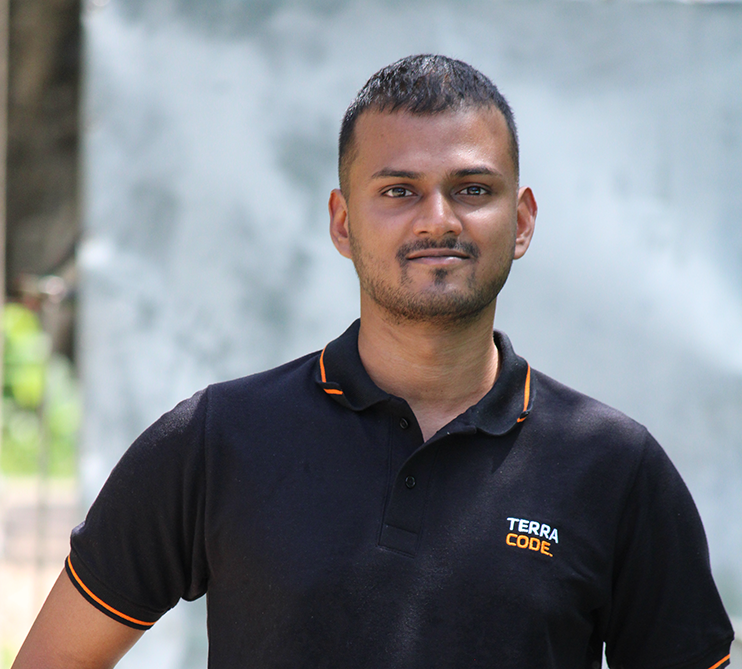
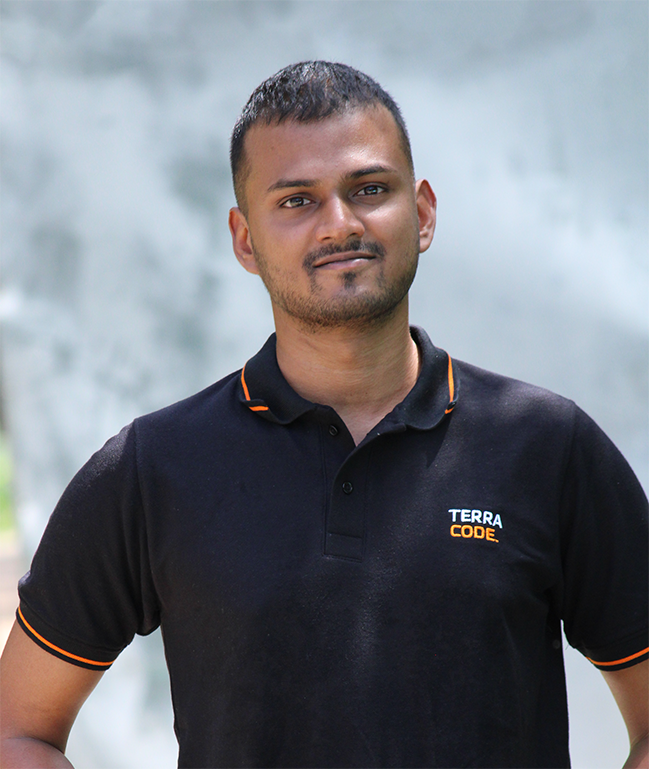
change the images and adding the redirectors and page scroll down error fix

diff --git a/src/pages/main-page/sections/Hero.tsx b/src/pages/main-page/sections/Hero.tsx
@@ -169,23 +169,27 @@ const HeroSection: React.FC = () => {
                 <div className="w-full relative flex flex-col items-start justify-start gap-4 text-center xl:text-xl text-gray font-lufga">
                   <div className="self-stretch rounded-3xl flex flex-row items-center justify-start py-0 px-6 gap-4">
                     <div className="w-[15px] relative rounded-[50%] bg-amber-600 h-[15px]" />
+                    <div className="relative tracking-[0.04px] leading-[30px] font-light">Business Software</div>
+                  </div>
+                  <div className="self-stretch rounded-3xl flex flex-row items-center justify-start py-0 px-6 gap-4">
+                    <div className="w-[15px] relative rounded-[50%] bg-amber-600 h-[15px]" />
                     <div className="relative tracking-[0.04px] leading-[30px] font-light">AI Solutions</div>
                   </div>
                   <div className="self-stretch rounded-3xl flex flex-row items-center justify-start py-0 px-6 gap-4">
                     <div className="w-[15px] relative rounded-[50%] bg-amber-600 h-[15px]" />
-                    <div className="relative tracking-[0.04px] leading-[30px] font-light">Design</div>
+                    <div className="relative tracking-[0.04px] leading-[30px] font-light">Web Applications</div>
                   </div>
                   <div className="self-stretch rounded-3xl flex flex-row items-center justify-start py-0 px-6 gap-4">
                     <div className="w-[15px] relative rounded-[50%] bg-amber-600 h-[15px]" />
-                    <div className="relative tracking-[0.04px] leading-[30px] font-light">Mobile App</div>
+                    <div className="relative tracking-[0.04px] leading-[30px] font-light">Mobile Applications</div>
                   </div>
                   <div className="self-stretch rounded-3xl flex flex-row items-center justify-start py-0 px-6 gap-4">
                     <div className="w-[15px] relative rounded-[50%] bg-amber-600 h-[15px]" />
-                    <div className="relative tracking-[0.04px] leading-[30px] font-light">Web App</div>
+                    <div className="relative tracking-[0.04px] leading-[30px] font-light">Cloud Operations</div>
                   </div>
                   <div className="self-stretch rounded-3xl flex flex-row items-center justify-start py-0 px-6 gap-4">
                     <div className="w-[15px] relative rounded-[50%] bg-amber-600 h-[15px]" />
-                    <div className="relative tracking-[0.04px] leading-[30px] font-light">Data Analysis</div>
+                    <div className="relative tracking-[0.04px] leading-[30px] font-light">UX Design</div>
                   </div>
                 </div>
                 <div className="text-amber-600 mt-10">
@@ -260,7 +264,7 @@ const HeroSection: React.FC = () => {
                 <ArrowRightCircle className="w-7 h-7" />
                 </button> */}
                 <div className="">
-                  <TerraButton className=" " padding="pl-6 pr-2 py-2 rounded-4xl text-sm gap-6 " img="w-3"/>
+                  <TerraButton className=" " padding="pl-6 pr-2 py-2 rounded-4xl text-sm gap-6 " img="w-3" onClick={handleClick}/>
                 </div>
                 <div className=" backdrop-blur-md bg-white/10 mt-4 rounded-2xl p-4 max-w-md w-full text-white shadow-lg flex justify-center items-center flex-row gap-4">
                 <div className="absolute bottom-0 left-0 w-full h-[1.5px] opacity-70 transition-opacity duration-300 bg-gradient-to-r from-transparent via-orange-500 to-transparent pointer-events-none" />

diff --git a/src/components/nfooter.tsx b/src/components/nfooter.tsx
@@ -1,8 +1,14 @@
 import { Facebook, Instagram, Linkedin } from "lucide-react";
 import TerraButton from "./button";
+import { useNavigate } from "@tanstack/react-router";
 
 
 export default function Footer() {
+    const navigate = useNavigate();
+
+    const handleClick = () => {
+  navigate({ to: '/contact' }) // e.g., '/about', '/dashboard', etc.
+}
   return (
     <div>
     {/* Dextop View     */}
@@ -10,7 +16,7 @@ export default function Footer() {
         <div className="flex flex-col px-4 gap-4 items-start justify-start">
             <img className="w-[102px] h-[65px] object-cover" alt="" src="hero/Frame 9.png" />
              <a className=" [text-decoration:underline]  font-semibold text-wrap " href="mailto:contact@terracodedev.com" target="_blank">contact@terracodedev.com</a>
-             <TerraButton/>
+             <TerraButton onClick={handleClick}/>
         </div>
         <div className="flex flex-col px-4 gap-4 items-start justify-start">
             <h1 className="font-bold">Company</h1>
@@ -94,7 +100,7 @@ export default function Footer() {
             </div>  
         </div>
         <div>
-            <TerraButton/>
+            <TerraButton onClick={handleClick}/>
         </div>
         <div className="flex flex-col items-center justify-center gap-4">
            <div className="flex flex-col items-center justify-center gap-4">

diff --git a/src/pages/team-page/sections/hero.tsx b/src/pages/team-page/sections/hero.tsx
@@ -1,9 +1,15 @@
 import TerraButton from "@/components/button"
 
 import ProfileCircles from "@/components/profile-circle"
+import { useNavigate } from "@tanstack/react-router";
 import { Rocket } from "lucide-react"
 
 const Hero = () => {
+  const navigate =useNavigate();
+  
+    const handleClick = () => {
+    navigate({ to: '/contact' }) // e.g., '/about', '/dashboard', etc.
+  }
   return (
     <div className="bg-black text-white font-lufga mt-10 container mx-auto px-4">
       <div className="max-w-8xl mx-auto">
@@ -16,7 +22,7 @@ const Hero = () => {
             <div className="flex flex-col mt-8 md:px-24 items-center gap-6 ">
                 <h1 className="text-4xl md:text-6xl font-extralight mb-4 text-[#FDA10A]">People Who Power the Code.</h1>
                 <p className="md:text-2xl text-gray-400 md:text-center">At TerraCodeDev, our strength lies in our people - a passionate team of engineers, designers, thinkers, and innovators dedicated to delivering world-class digital solutions. We blend technical excellence with creative energy to help brands thrive in a connected world.</p>
-                <TerraButton className="mt-6 md:mb-36"/>
+                <TerraButton className="mt-6 md:mb-36" onClick={handleClick}/>
             </div>
         </div>
         {/* team members Images */}

diff --git a/src/routes/__root.tsx b/src/routes/__root.tsx
@@ -8,11 +8,14 @@ import Footer from '@/components/nfooter'
 import { CookieBanner } from '@/components/CookieFile'
 import NotFound from '@/components/NotFound'
 import Navbar from '@/components/navbar'
+import { ScrollToTop } from '@/components/scrolltop'
+
 
 
 export const Route = createRootRoute({
+  
   component: () => {
-
+    
 
     return (
       <div>
@@ -24,6 +27,7 @@ export const Route = createRootRoute({
             exit={{ opacity: 0 }}
             transition={{ duration: 0.5 }}
           >
+            <ScrollToTop/>
             <CookieBanner />
             {/* <Navbar /> */}
             <Outlet />

diff --git a/src/routes/contact.tsx b/src/routes/contact.tsx
@@ -1,12 +1,16 @@
 import Navbar from '@/components/navbar'
 import Page from '@/pages/Contactus-page/page'
 import { createFileRoute } from '@tanstack/react-router'
+// import { useEffect } from 'react'
 
 export const Route = createFileRoute('/contact')({
   component: RouteComponent,
 })
 
 function RouteComponent() {
+  // useEffect(() => {
+  //   window.scrollTo(0, 0)
+  // }, [])
   return(
       <div className='mt-10'>
         <Navbar/>

diff --git a/src/components/scrolltop.tsx b/src/components/scrolltop.tsx
@@ -1,0 +1,16 @@
+import { useEffect } from "react"
+import { useRouter } from "@tanstack/react-router"
+
+export function ScrollToTop() {
+  const router = useRouter()
+
+  useEffect(() => {
+    const unsub = router.subscribe("onResolved", () => {
+      window.scrollTo({ top: 0, behavior: "smooth" }) // scroll to top on navigation
+    })
+
+    return () => unsub()
+  }, [router])
+
+  return null
+}
